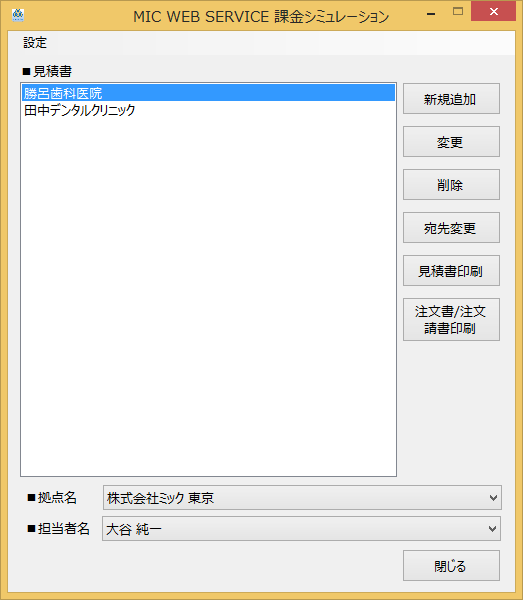
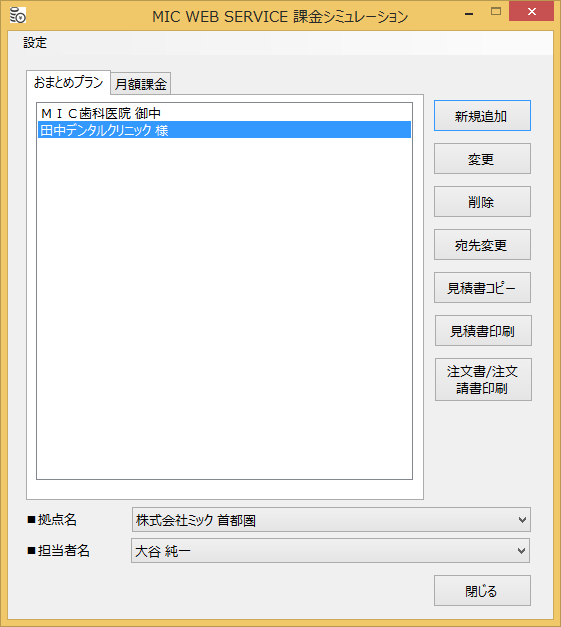
画面変更前のチェックイン

Changed region(s): [[0.0, 0.0, 0.979, 0.9], [0.7648, 0.9, 0.9484, 0.99], [0.979, 0.96, 1.0, 0.99]]

diff --git a/MWS/Application/MwsSimulation2/Forms/SimulationMonthlyForm.cs b/MWS/Application/MwsSimulation2/Forms/SimulationMonthlyForm.cs
@@ -189,7 +189,7 @@ namespace MwsSimulation.Forms
 							}
 							if (SQLiteMwsSimulationDef.ServiceMode.Set == estService.Mode)
 							{
-								// セット割サービス
+								// 該当するセット割サービスを選択状態にする
 								foreach (ListViewItem item in listViewSetPlan.Items)
 								{
 									SetPlan plan = item.Tag as SetPlan;
@@ -202,9 +202,11 @@ namespace MwsSimulation.Forms
 								foreach (ListViewItem item in listViewService.Items)
 								{
 									ServiceInfo service = item.Tag as ServiceInfo;
-									if (service.GoodsID == estService.GoodsID)
+									if (group.Item1 == service.GoodsID)
 									{
+										// セット割サービスに含まれるサービスを選択状態にする
 										item.Checked = true;
+										item.BackColor = Color.DarkGray;
 										break;
 									}
 								}

diff --git a/MWS/Application/MwsSimulation2/Forms/SimulationMonthlyForm.Designer.cs b/MWS/Application/MwsSimulation2/Forms/SimulationMonthlyForm.Designer.cs
@@ -436,7 +436,7 @@
 			this.Icon = ((System.Drawing.Icon)(resources.GetObject("$this.Icon")));
 			this.Name = "SimulationMonthlyForm";
 			this.StartPosition = System.Windows.Forms.FormStartPosition.CenterParent;
-			this.Text = "MIC WEB SERVICE 御見積書作成（月額課金/セット割サービス）";
+			this.Text = "MIC WEB SERVICE 御見積書作成（月額課金）";
 			this.FormClosed += new System.Windows.Forms.FormClosedEventHandler(this.SimulationMonthlyForm_FormClosed);
 			this.Load += new System.EventHandler(this.SimulationMonthlyForm_Load);
 			this.ResumeLayout(false);

diff --git a/MWS/MwsLib/BaseFactory/MwsSimulation/Estimate.cs b/MWS/MwsLib/BaseFactory/MwsSimulation/Estimate.cs
@@ -274,7 +274,7 @@ namespace MwsLib.BaseFactory.MwsSimulation
 			}
 			if (null != platform)
 			{
-				// MIC WEB SERVICE標準サービス
+				// MIC WEB SERVICE標準サービスを先頭に格納
 				EstimateService estSvr = new EstimateService();
 				estSvr.GoodsID = platform.GoodsID;
 				estSvr.ServiceName = platform.ServiceName;
